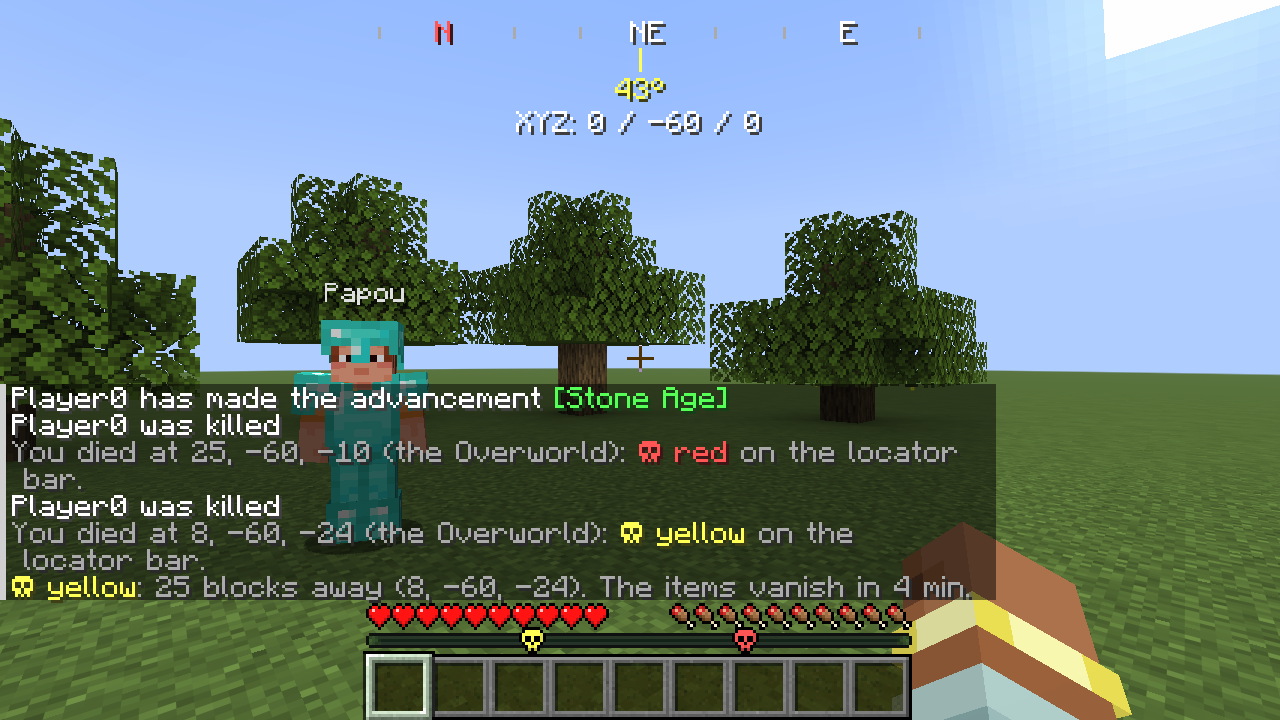
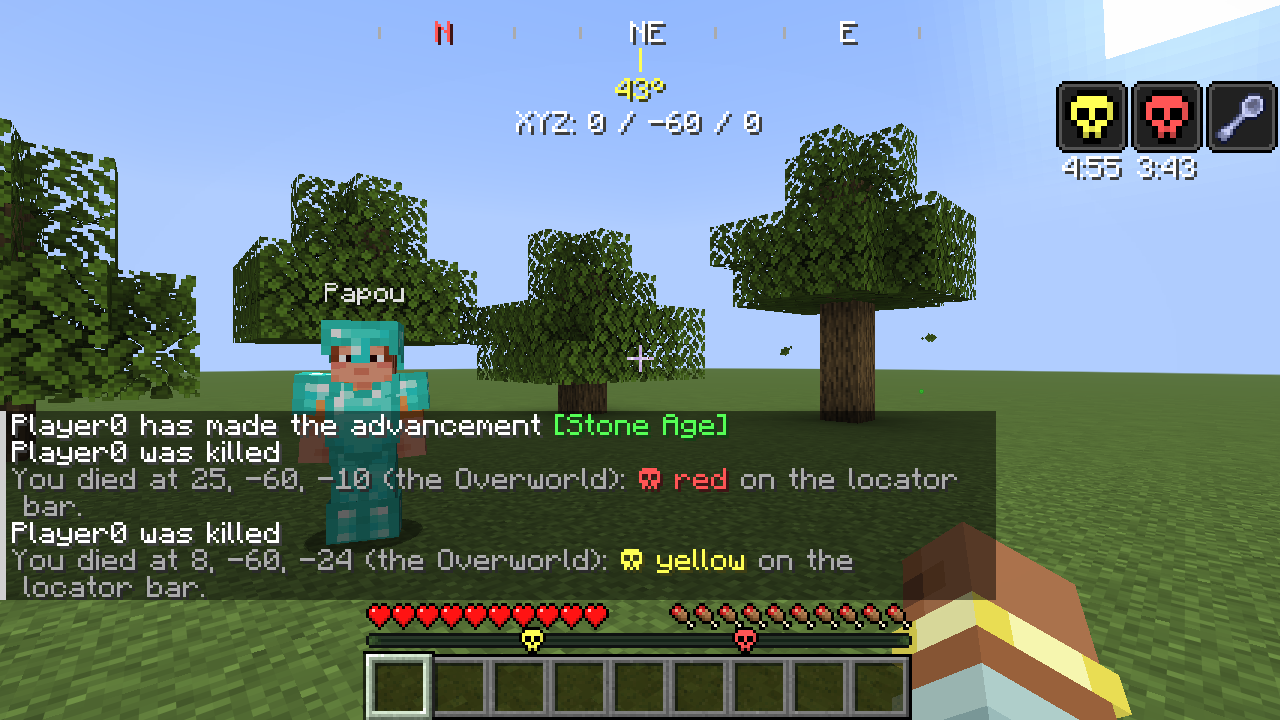
Papou HUD 1.4.5: death skull timers like status effects
Each death skull also shows in the top right like a harmful status
effect, after the player's real ones: the skull in its color in the
effect frame, with the time its items have left below ("4:32"), faded
and grey while nobody is near the items, red in the last 30 seconds.
It follows the HUD size. The per-minute chat reminders are gone.

Changed region(s): [[0.0, 0.1528, 0.7812, 0.8556], [0.8125, 0.0917, 1.0, 0.2444], [0.1875, 0.3972, 0.25, 0.4889]]

diff --git a/src/main/java/com/giulio/papouhud/DeathMarkerHud.java b/src/main/java/com/giulio/papouhud/DeathMarkerHud.java
@@ -1,0 +1,86 @@
+package com.giulio.papouhud;
+
+import net.fabricmc.fabric.api.client.rendering.v1.hud.HudElementRegistry;
+import net.fabricmc.fabric.api.client.rendering.v1.hud.VanillaHudElements;
+import net.minecraft.client.DeltaTracker;
+import net.minecraft.client.Minecraft;
+import net.minecraft.client.gui.GuiGraphicsExtractor;
+import net.minecraft.client.gui.screens.Screen;
+import net.minecraft.client.renderer.RenderPipelines;
+import net.minecraft.resources.Identifier;
+import net.minecraft.world.effect.MobEffectInstance;
+
+/**
+ * In alto a destra, ogni teschio di {@link DeathMarker} come un effetto negativo: il riquadro degli
+ * effetti con il teschio del suo colore e, sotto, il tempo che resta ai suoi oggetti ("4:32").
+ * Sta nella riga degli effetti negativi del gioco, a sinistra di quelli che il giocatore ha gia'.
+ * Quando nessuno e' vicino agli oggetti il conto e' fermo: teschio sbiadito e tempo grigio.
+ * Segue la dimensione dell'HUD di Papou (PapouConfig.hudScale).
+ */
+final class DeathMarkerHud {
+	/** Come gli effetti del gioco: riquadri da 24 px, uno ogni 25; i negativi nella seconda riga (y = 1 + 26). */
+	private static final int SIZE = 24;
+	private static final int STEP = 25;
+	private static final int ROW_Y = 1 + 26;
+	private static final int ICON = 18;
+	private static final Identifier BACKGROUND = Identifier.withDefaultNamespace("hud/effect_background");
+	/** Lo stesso teschio della locator bar (9x9, bianco con il contorno nero), qui ingrandito e colorato. */
+	private static final Identifier SKULL = Identifier.fromNamespaceAndPath("papouhud", "hud/locator_bar_dot/death");
+
+	private static final int TIME_RUNNING = 0xFFFFFFFF;
+	private static final int TIME_LAST_SECONDS = 0xFFFF5555;
+	private static final int TIME_PAUSED = 0xFF9A9A9A;
+	/** Ultimi secondi: il tempo diventa rosso. */
+	private static final int LAST_SECONDS_TICKS = 30 * 20;
+
+	private DeathMarkerHud() {
+	}
+
+	static void register() {
+		HudElementRegistry.attachElementAfter(
+				VanillaHudElements.MOB_EFFECTS,
+				Identifier.fromNamespaceAndPath("papouhud", "death_markers"),
+				DeathMarkerHud::render);
+	}
+
+	private static void render(GuiGraphicsExtractor graphics, DeltaTracker deltaTracker) {
+		Minecraft mc = Minecraft.getInstance();
+		if (mc.player == null || DeathMarker.markers.isEmpty()) {
+			return;
+		}
+		// Come gli effetti del gioco: nascosti quando una schermata li mostra gia' (es. l'inventario).
+		Screen screen = mc.gui.screen();
+		if (screen != null && screen.showsActiveEffects()) {
+			return;
+		}
+
+		// Dopo le icone degli effetti negativi (e neutri) che il gioco sta gia' disegnando.
+		int vanillaIcons = 0;
+		for (MobEffectInstance effect : mc.player.getActiveEffects()) {
+			if (effect.showIcon() && !effect.getEffect().value().isBeneficial()) {
+				vanillaIcons++;
+			}
+		}
+		int rowStart = graphics.guiWidth() - STEP * vanillaIcons;
+		int rowY = ROW_Y + (mc.isDemo() ? 15 : 0);
+
+		float scale = PapouConfig.get().hudScaleFactor();
+		graphics.pose().pushMatrix();
+		graphics.pose().translate(rowStart, rowY);
+		graphics.pose().scale(scale, scale);
+		int index = 0;
+		for (DeathMarker.Marker marker : DeathMarker.markers) {
+			index++;
+			int x = -STEP * index;
+			graphics.blitSprite(RenderPipelines.GUI_TEXTURED, BACKGROUND, x, 0, SIZE, SIZE);
+			int tint = marker.running ? marker.color.argb : (marker.color.argb & 0x00FFFFFF) | 0x80000000;
+			graphics.blitSprite(RenderPipelines.GUI_TEXTURED, SKULL, x + (SIZE - ICON) / 2, (SIZE - ICON) / 2, ICON, ICON, tint);
+
+			String time = DeathMarker.timeLeft(marker);
+			int color = !marker.running ? TIME_PAUSED
+					: DeathMarker.DURATION_TICKS - marker.agedTicks <= LAST_SECONDS_TICKS ? TIME_LAST_SECONDS : TIME_RUNNING;
+			graphics.text(mc.font, time, x + SIZE / 2 - mc.font.width(time) / 2, SIZE + 1, color, true);
+		}
+		graphics.pose().popMatrix();
+	}
+}

diff --git a/src/main/java/com/giulio/papouhud/DeathMarker.java b/src/main/java/com/giulio/papouhud/DeathMarker.java
@@ -47,7 +47,9 @@ import net.minecraft.world.waypoints.WaypointStyleAssets;
 
 /**
  * Dopo ogni morte: un teschio sulla locator bar (la barra che indica gli altri giocatori) punta al
- * luogo della morte, con messaggi in chat. Una morte = un teschio di un altro colore, fino a 6.
+ * luogo della morte, con messaggi in chat. Una morte = un teschio di un altro colore, fino a 6. In alto a
+ * destra, accanto agli effetti negativi, ogni teschio ha anche un'icona con il tempo che resta ai suoi
+ * oggetti (vedi DeathMarkerHud).
  *
  * <p>Il teschio dura quanto gli oggetti caduti. Nel gioco un oggetto a terra sparisce dopo 5 minuti
  * (6000 tick) passati in un chunk "simulato", cioe' entro la distanza di simulazione del server da un
@@ -62,7 +64,6 @@ import net.minecraft.world.waypoints.WaypointStyleAssets;
  */
 final class DeathMarker {
 	static final int DURATION_TICKS = 5 * 60 * 20;
-	static final int MESSAGE_INTERVAL_TICKS = 60 * 20;
 	/** A meno di questi blocchi dal punto si controlla se gli oggetti ci sono ancora. */
 	static final double COLLECT_CHECK_RANGE = 6.0;
 	/** Raggio, in blocchi, intorno al punto in cui cercare gli oggetti caduti. */
@@ -114,6 +115,8 @@ final class DeathMarker {
 		int agedTicks;
 		/** Tick di fila in cui, da vicino, non si e' visto nessun oggetto intorno al punto. */
 		int emptyTicks;
+		/** Se all'ultimo tick il conto stava andando (qualcuno vicino agli oggetti): l'icona lo mostra. */
+		boolean running;
 		final TrackedWaypoint waypoint;
 
 		Marker(GlobalPos pos, Color color, int agedTicks) {
@@ -218,7 +221,8 @@ final class DeathMarker {
 		boolean aging = false;
 		for (Iterator<Marker> it = markers.iterator(); it.hasNext(); ) {
 			Marker marker = it.next();
-			if (isSimulated(player, marker.pos, simulation)) {
+			marker.running = isSimulated(player, marker.pos, simulation);
+			if (marker.running) {
 				aging = true;
 				marker.agedTicks++;
 				if (marker.agedTicks >= DURATION_TICKS) {
@@ -227,9 +231,6 @@ final class DeathMarker {
 					changed = true;
 					player.sendSystemMessage(message(Component.translatable("papouhud.death.expired", marker.color.label())));
 					continue;
-				}
-				if (marker.agedTicks % MESSAGE_INTERVAL_TICKS == 0) {
-					remind(player, marker);
 				}
 			}
 
@@ -293,18 +294,10 @@ final class DeathMarker {
 		return player.level().getEntitiesOfClass(ItemEntity.class, area).isEmpty();
 	}
 
-	private static void remind(LocalPlayer player, Marker marker) {
-		int minutesLeft = (DURATION_TICKS - marker.agedTicks + MESSAGE_INTERVAL_TICKS - 1) / MESSAGE_INTERVAL_TICKS;
-		BlockPos pos = marker.pos.pos();
-		Component text;
-		if (player.level().dimension() == marker.pos.dimension()) {
-			int distance = (int) Math.round(Math.sqrt(player.blockPosition().distSqr(pos)));
-			text = Component.translatable("papouhud.death.reminder", marker.color.label(), distance, coordinates(pos), minutesLeft);
-		} else {
-			text = Component.translatable("papouhud.death.reminder_other_dimension", marker.color.label(),
-					dimensionName(marker.pos.dimension()), coordinates(pos), minutesLeft);
-		}
-		player.sendSystemMessage(message(text));
+	/** Tempo che resta agli oggetti, come la durata degli effetti: "4:32", "0:07". */
+	static String timeLeft(Marker marker) {
+		int seconds = (DURATION_TICKS - marker.agedTicks + 19) / 20;
+		return seconds / 60 + ":" + String.format(java.util.Locale.ROOT, "%02d", seconds % 60);
 	}
 
 	/** Mostra ogni teschio solo nella sua dimensione (altrove la direzione non avrebbe senso), e non da morti. */

diff --git a/src/gametest/java/com/giulio/papouhud/ScreenshotGameTest.java b/src/gametest/java/com/giulio/papouhud/ScreenshotGameTest.java
@@ -165,8 +165,9 @@ public class ScreenshotGameTest implements FabricClientGameTest {
 	}
 
 	/**
-	 * Die at a known spot, respawn, and check that the skull waypoint points there; capture the
-	 * locator bar with the chat reminders, then fast-forward past the 5 minutes and check it is gone.
+	 * Die at two known spots: two skulls, red and yellow, on the locator bar and as timers in the top
+	 * right (screenshot). Then check that the timers stop far from the spots, that a skull goes away
+	 * when its items are gone, and that one goes away after its 5 minutes.
 	 */
 	private static void deathMarker(ClientGameTestContext context, TestSingleplayerContext world) {
 		BlockPos first = new BlockPos(25, -60, -10);
@@ -189,16 +190,17 @@ public class ScreenshotGameTest implements FabricClientGameTest {
 		}
 
 		// After respawning, vanilla shows the XP bar for 100 ticks before the locator bar comes back.
-		// Look between the two spots so both skulls sit on the locator bar, then jump to the yellow
-		// one's 1-minute reminder so the chat shows it too. Friend panels are hidden for this shot so
-		// they don't cover the chat.
+		// Look between the two spots so both skulls sit on the locator bar; the skulls' timers show in
+		// the top right, next to a real harmful effect. Friend panels are hidden for this shot so they
+		// don't cover the chat.
 		context.getInput().lookAt(new BlockPos(16, -59, -17));
 		context.runOnClient(mc -> PapouConfig.get().panelsEnabled = false);
+		world.getServer().runCommand("effect give @a minecraft:mining_fatigue 600 0");
+		context.runOnClient(mc -> DeathMarker.markers.get(0).agedTicks = 72 * 20);
 		context.waitTicks(110);
-		context.runOnClient(mc -> DeathMarker.markers.get(1).agedTicks = DeathMarker.MESSAGE_INTERVAL_TICKS - 1);
-		context.waitTicks(5);
 		context.takeScreenshot(options("death-marker"));
 		context.runOnClient(mc -> PapouConfig.get().panelsEnabled = true);
+		world.getServer().runCommand("effect clear @a");
 
 		// Far from both spots, beyond the simulation distance, the items stop aging, and so do the skulls.
 		world.getServer().runCommand("tp @a 1000 -60 1000");
@@ -212,6 +214,10 @@ public class ScreenshotGameTest implements FabricClientGameTest {
 		if (before[0] != after[0] || before[1] != after[1]) {
 			throw new AssertionError("Skulls aged while nobody was near their items");
 		}
+		// The timers show as paused (grey).
+		if (context.computeOnClient(mc -> DeathMarker.markers.stream().anyMatch(marker -> marker.running))) {
+			throw new AssertionError("A skull's timer shows as running with nobody near its items");
+		}
 
 		// Back next to the second spot (its chunk, and items, load again), then its items go: the yellow
 		// skull goes away as picked up.
@@ -221,6 +227,8 @@ public class ScreenshotGameTest implements FabricClientGameTest {
 		world.getServer().runCommand("kill @e[type=item,x=8,y=-60,z=-24,distance=..10]");
 		context.waitFor(mc -> DeathMarker.markers.size() == 1
 				&& DeathMarker.markers.get(0).color == DeathMarker.Color.RED, 20 * 10);
+		// Near the red spot again: its timer runs again.
+		context.waitFor(mc -> DeathMarker.markers.get(0).running, 20 * 10);
 
 		// The red skull ages while its items do (the player is near): after 5 minutes it's gone.
 		context.runOnClient(mc -> DeathMarker.markers.get(0).agedTicks = DeathMarker.DURATION_TICKS - 1);

diff --git a/src/main/java/com/giulio/papouhud/PapouHudClient.java b/src/main/java/com/giulio/papouhud/PapouHudClient.java
@@ -23,7 +23,8 @@ import net.minecraft.util.Mth;
  *    e la dimensione dell'HUD (pannelli, bussola e coordinate; vedi PapouConfig.hudScale);
  *  - all'avvio, un popup se su GitHub c'e' una versione piu' recente (vedi UpdateChecker);
  *  - nelle fornaci, l'XP accumulata (vedi FurnaceXpOverlay e, lato server, FurnaceXpSync);
- *  - dopo la morte, un teschio sulla locator bar e promemoria in chat per 5 minuti (vedi DeathMarker);
+ *  - dopo ogni morte, un teschio colorato sulla locator bar e, in alto a destra, un'icona come quella degli
+ *    effetti con il tempo che resta agli oggetti caduti (vedi DeathMarker e DeathMarkerHud);
  *  - sui server, le schede creative gia' pronte, cosi' Inventory Sorter ordina per categoria (vedi CreativeTabs).
  */
 public class PapouHudClient implements ClientModInitializer {
@@ -46,6 +47,7 @@ public class PapouHudClient implements ClientModInitializer {
 		RemotePlayers.register();
 		ClientTickEvents.END_CLIENT_TICK.register(DeathMarker::tick);
 		CreativeTabs.register();
+		DeathMarkerHud.register();
 
 		HudElementRegistry.attachElementAfter(
 				VanillaHudElements.CHAT,

diff --git a/README.md b/README.md
@@ -92,11 +92,12 @@ On a server without the mod the XP line simply doesn't appear, and everything el
 
 When you die, a skull appears on the locator bar (the bar above the hotbar that shows other players). It points to the exact spot where you died, so you can walk back and pick up your items. Each death gets its own skull, in its own color (red, yellow, aqua, purple, green, orange), so if you die again on the way back you can find both spots. Up to 6 are kept; a seventh death replaces the oldest.
 
-![Two skulls on the locator bar and a death reminder in chat](docs/screenshots/death-marker.png)
+![Two skulls on the locator bar, their timers in the top right next to a harmful effect, and the death messages in chat](docs/screenshots/death-marker.png)
 
 - **How long:** a skull lasts as long as the items you dropped. In Minecraft, items on the ground vanish after 5 minutes, but their clock only runs while the chunk they are in is simulated, i.e. while a player is within the server's **simulation distance** (counted in chunks; 6 chunks, about 100 blocks, on a server set to 6). Far from everyone, or with the game paused in singleplayer, the items wait. The skulls follow the same rule: their 5 minutes only run while you, or a friend the server tells Papou HUD about, are close enough. The time you spend on the death screen counts too, because your body is still there.
+- **Timer in the top right:** each skull also shows up like a harmful status effect, next to the real ones: the skull in its color, with the time its items have left below it ("4:32"). While nobody is near the items the timer is paused: the skull fades and the time turns grey. In the last 30 seconds the time turns red. It follows the HUD size set in the menu.
 - **Picked up:** when you get within a few blocks of a skull and no items are left on the ground around it (you picked them up, or they burned), the skull goes away.
-- **Chat:** right after you respawn, the chat shows where you died and which skull points there. While a skull's clock is running, every minute it says how far away it is and how many minutes the items have left. When a skull goes away, the chat says why.
+- **Chat:** right after you respawn, the chat shows where you died and which skull points there. When a skull goes away, the chat says why.
 - **Leaving the game:** the skulls are saved per server or world (in `config/papouhud-deaths.json`) and come back when you return, with a chat line listing them. The items are still there too, since nobody was near them.
 - **Other dimensions:** each skull only shows in the dimension where you died.
 - **Locator bar:** right after respawning, the game shows the XP bar for a few seconds before switching back to the locator bar.

diff --git a/release-notes/v1.4.5.md b/release-notes/v1.4.5.md
@@ -1,0 +1,16 @@
+Papou HUD for **Minecraft 26.3**. Players with 1.4.0 or later get this update from the popup at startup.
+
+## New: death skulls with a timer, like status effects
+
+Each death skull now also shows up in the top right of the screen like a harmful status effect, next to the real ones: the skull in its color, with the time its items have left below it ("4:32").
+
+- A skull's 5 minutes only run while someone is near its items (within the server's simulation distance, about 100 blocks on a server set to 6 chunks). While nobody is, the timer is paused: the skull fades and the time turns grey.
+- In the last 30 seconds the time turns red.
+- It follows the HUD size set in the menu (`M`).
+
+The chat no longer repeats a reminder every minute: it still says where you died, and why a skull went away.
+
+## Files
+
+- `papouhud-1.4.5.jar`: the mod, for players (and for Fabric servers).
+- `papouhud-paper-1.4.5.jar`: the plugin for Paper 26.3 servers. It doesn't go in `.minecraft/mods`.
